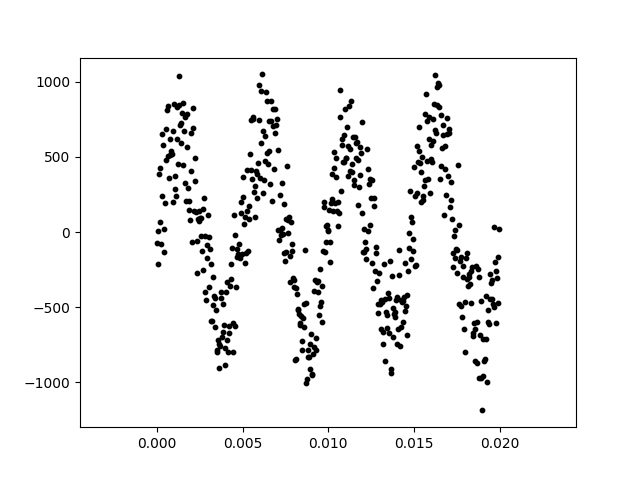
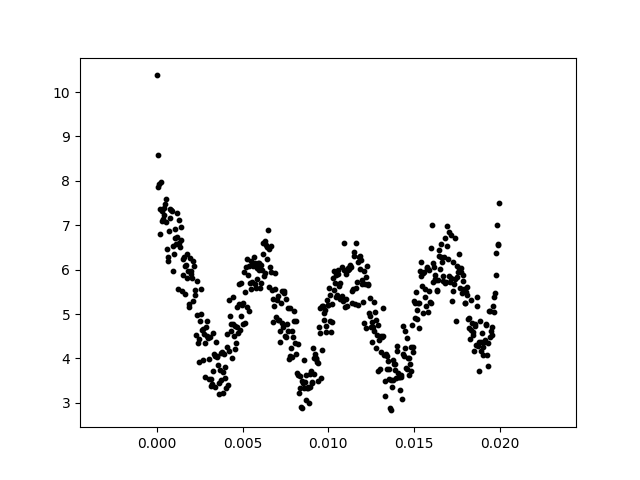
Terminado ejercicio 4

diff --git a/ejercicio4.py b/ejercicio4.py
@@ -50,6 +50,6 @@ tspace=t
 yspace=np.array([i_fourier(fspace,sspace,time_val) for time_val in tspace])
 
 plt.figure()
-plt.scatter(tspace,yspace.real,s=10,c='k')
+plt.scatter(tspace,np.sqrt(yspace.real**2+yspace.imag**2)/(n),s=10,c='k')
 #plt.xlim([0,1000])
 plt.savefig("filtro.png")
